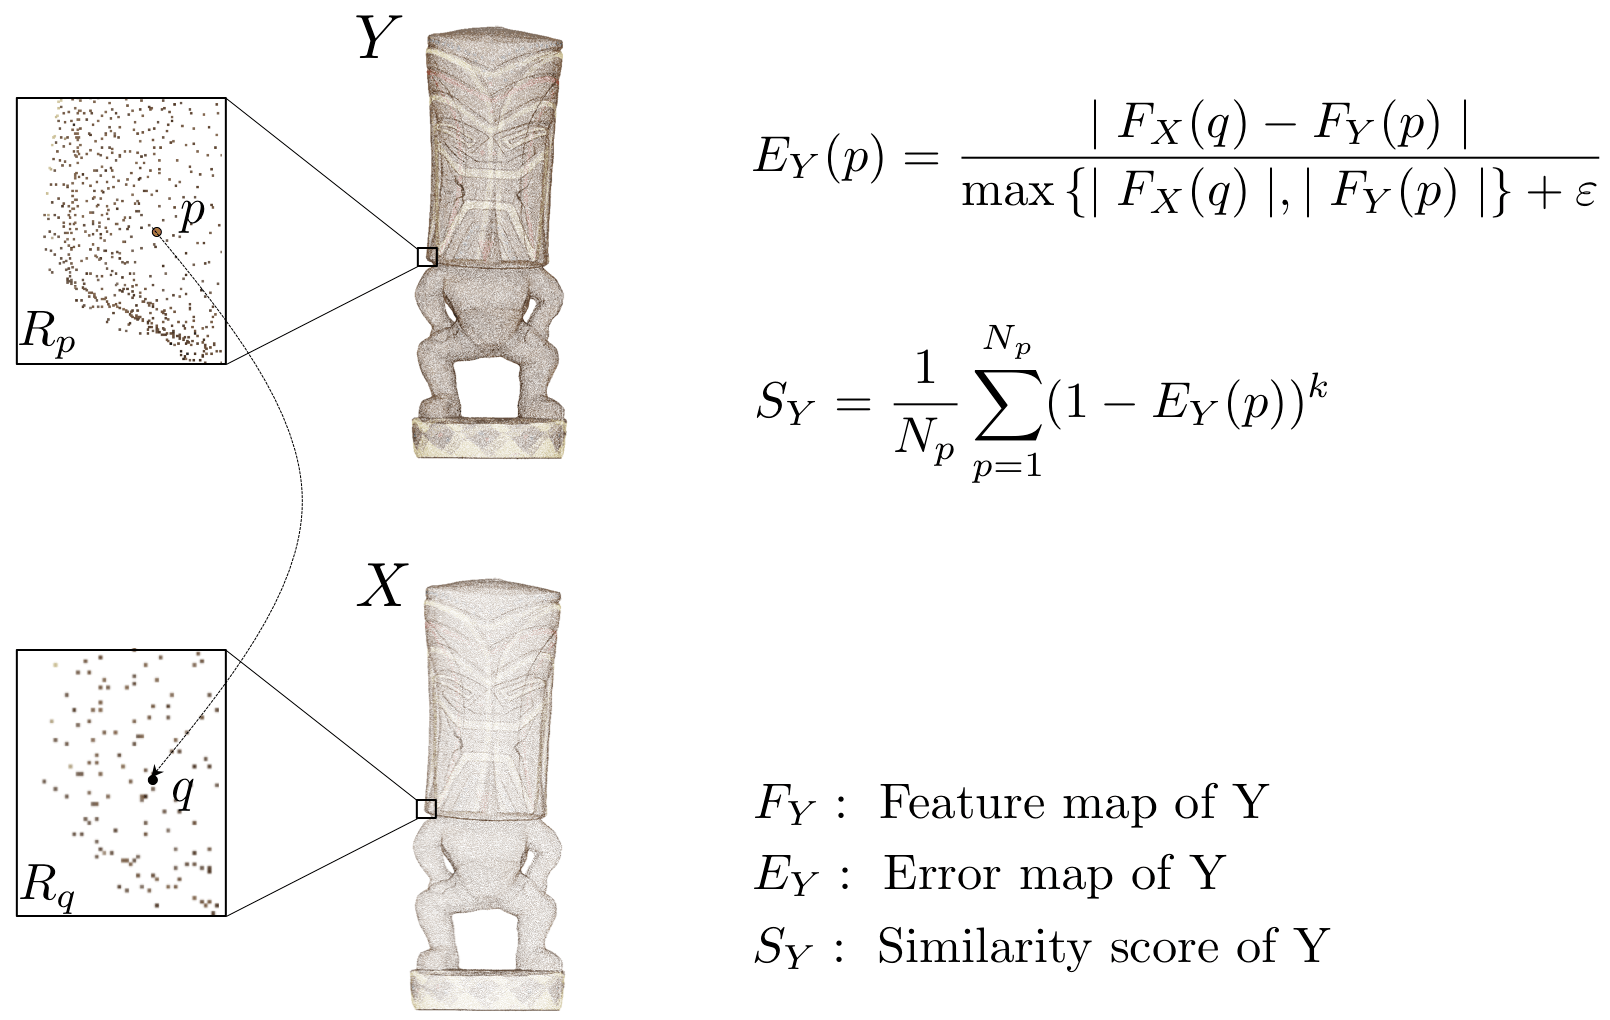
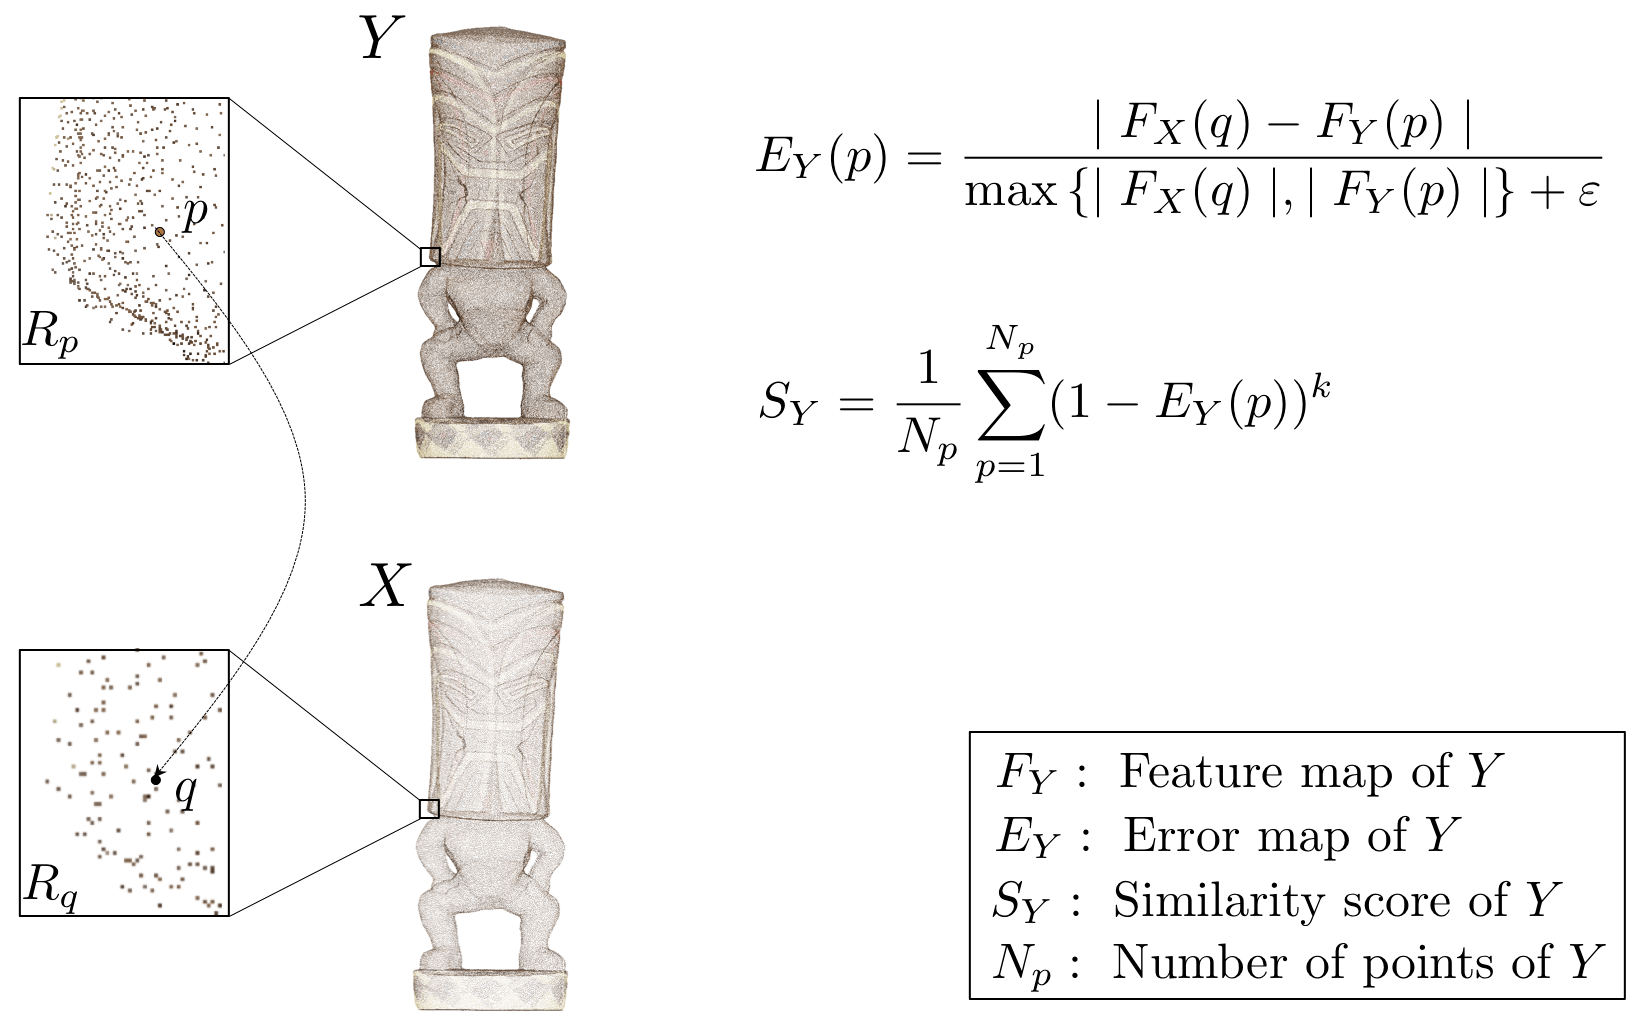
Update illustration

diff --git a/README.md b/README.md
@@ -24,7 +24,7 @@ The algorithmic steps that are employed in the proposed framework allow for diff
 
 For more details, the reader can refer to [1].
 
-![alt text](/docs/similarity_score.png)
+![alt text](/docs/similarity_score_2.png)
 *\*Outline of point cloud similarity working principle. The depicted point cloud is part of the [**PointXR dataset**](https://www.epfl.ch/labs/mmspg/downloads/pointxr/) (original model source: [link](https://sketchfab.com/3d-models/hawaiian-tiki-3dscan-022f006c8ef647818d754195f02cb61f), creator: [Thomas Flynn](https://sketchfab.com/nebulousflynn), license: [CC Attribution](https://creativecommons.org/licenses/by/4.0/))*.
 
 
